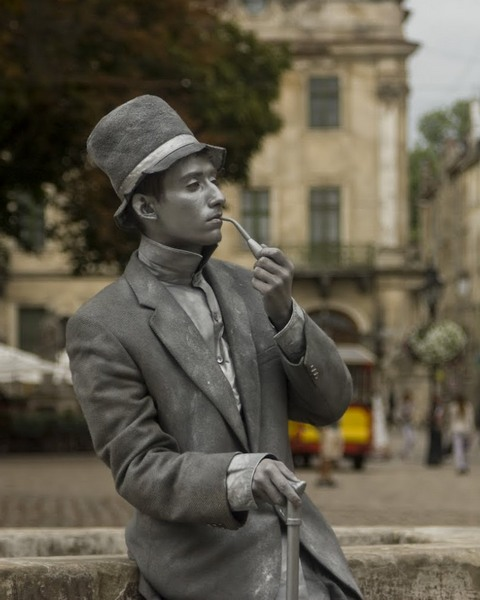
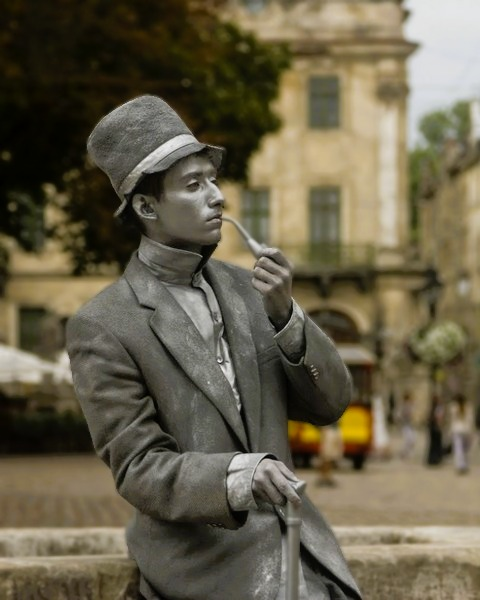
Created NFT reward image

diff --git a/backend/src/main/resources/static/index.html b/backend/src/main/resources/static/index.html
@@ -175,39 +175,76 @@
                 <br>
                 <p>Collect at least 100 tokens to receive a reward.</p>
             </div>
+
+            
             <div id="claimReward-container">
-                <!-- <button onclick="claimReward()">Claim NFT Reward</button> -->
-                <!-- Claim Reward Popup -->
-                <button type="button" id="btn_claim_reward">Claim NFT Reward</button>
-                    <!-- Popup -->
+                <button type="button" id="btn_claim_reward">
+                    Claim NFT Reward
+                </button>
+
                 <div class="popup" id="popup-claimReward">
                     <div class="overlay" id="overlay-claim"></div>
+
                     <div class="content">
                         <h3>Claim NFT Reward</h3>
+
                         <div>
                             <br>
                             <h4>Connect your wallet</h4>
-                            <button id="connectWalletBtn">Connect Wallet</button>
+                            <button id="connectWalletBtn">
+                                Connect Wallet
+                            </button>
+
                             <br><br>
+
                             <div>
-                                Connected Wallet: <span id="walletDisplay">Not connected</span>
+                                Connected Wallet:
+                                <span id="walletDisplay">
+                                    Not connected
+                                </span>
                             </div>
                         </div>
 
+                        <!-- NFT Preview -->
+                        <div class="nft-preview">
+                            <h4>Your Reward</h4>
+
+                            <img
+                                id="nftPreviewImage"
+                                src="https://res.cloudinary.com/tomaszwoloszyn983/image/upload/v1780298463/Swap-Puzzle-Game-NFT/puzzle_game_reward_yhbcg1.png"
+                                alt="NFT Reward"
+                            >
+                            <p>
+                                Complete the puzzle and claim your NFT reward.
+                            </p>
+                        </div>
+
                         <form id="claimForm">
-                            <input 
-                                type="text" 
-                                id="walletAddress" 
-                                placeholder="Enter wallet address (0x...)" 
+                            <input
+                                type="text"
+                                id="walletAddress"
+                                placeholder="Enter wallet address (0x...)"
                                 required
                             >
+
                             <br><br>
-                            <button type="submit" id="claimSubmitBtn" disabled>
+
+                            <button
+                                type="submit"
+                                id="claimSubmitBtn"
+                                disabled>
                                 Claim
                             </button>
                         </form>
+
                         <br>
-                        <button type="button" id="closeClaimPopup">Cancel</button>
+
+                        <button
+                            type="button"
+                            id="closeClaimPopup">
+                            Cancel
+                        </button>
+
                     </div>
                 </div>
             </div>

diff --git a/backend/src/main/resources/static/script.js b/backend/src/main/resources/static/script.js
@@ -239,6 +239,30 @@ document.addEventListener(
     }
 );
 
+function updateWalletUI(walletAddress) {
+
+    const notConnected =
+        document.getElementById("walletNotConnected");
+
+    const connected =
+        document.getElementById("walletConnected");
+
+    if(walletAddress){
+
+        notConnected.style.display = "none";
+        connected.style.display = "block";
+
+        document.getElementById(
+            "connectedWalletAddress"
+        ).innerText = walletAddress;
+
+    }else{
+
+        notConnected.style.display = "block";
+        connected.style.display = "none";
+    }
+}
+
 
 /**
  * Claim NFT Rewards button handler.
@@ -958,6 +982,7 @@ async function connectWallet() {
 
     const walletAddress = accounts[0];
     console.log("Connected wallet:", walletAddress);
+    updateWalletUI(walletAddress);
 
     document.getElementById("walletDisplay").innerText = walletAddress; // display in UI
 

diff --git a/backend/src/main/resources/static/popupBoxes/notConnectedClaimBox copy.html b/backend/src/main/resources/static/popupBoxes/notConnectedClaimBox copy.html
@@ -1,0 +1,38 @@
+<div id="walletNotConnected">
+
+    <h4>Connect your wallet</h4>
+
+    <button id="connectWalletBtn">
+        Connect Wallet
+    </button>
+
+    <br><br>
+
+    <div>
+        Connected Wallet:
+        <span id="walletDisplay">
+            Not connected
+        </span>
+    </div>
+
+    <br>
+
+    <form id="claimForm">
+        <input
+            type="text"
+            id="walletAddress"
+            placeholder="Enter wallet address (0x...)"
+            required
+        >
+
+        <br><br>
+
+        <button
+            type="submit"
+            id="claimSubmitBtn"
+            disabled>
+            Claim
+        </button>
+    </form>
+
+</div>

diff --git a/backend/src/main/resources/static/style.css b/backend/src/main/resources/static/style.css
@@ -265,6 +265,24 @@ li {
     transform: translate(-50%, -50%) scale(1);
 }
 
+.nft-preview {
+    text-align: center;
+    margin: 20px 0;
+}
+
+.nft-preview img {
+    width: 180px;
+    height: auto;
+    border-radius: 10px;
+    border: 2px solid #ccc;
+    box-shadow: 0 2px 8px rgba(0,0,0,0.2);
+}
+
+.nft-preview p {
+    margin-top: 10px;
+    font-size: 0.9rem;
+}
+
 
 @media screen and (max-width: 1200px){
     #game_container {

diff --git a/backend/src/main/resources/static/popupBoxes/connectedClaimBox.html b/backend/src/main/resources/static/popupBoxes/connectedClaimBox.html
@@ -1,0 +1,21 @@
+<div id="walletConnected" style="display:none;">
+
+    <h4>Wallet Connected</h4>
+
+    <div id="connectedWalletAddress"></div>
+
+    <br>
+
+    <button id="disconnectWalletBtn">
+        Disconnect Wallet
+    </button>
+
+    <br><br>
+
+    <button
+        type="submit"
+        id="claimSubmitBtnConnected">
+        Claim NFT
+    </button>
+
+</div>

diff --git a/backend/src/main/java/com/tomasz/puzzlegame_backend/controller/GameController.java b/backend/src/main/java/com/tomasz/puzzlegame_backend/controller/GameController.java
@@ -182,7 +182,6 @@ public class GameController {
                     );
                     File outputFile = outputDir.resolve("piece_" + count + ".jpg").toFile();
                     ImageIO.write(subImage, "jpg", outputFile);
-                    System.out.println("Uploaded image " + outputFile.getName());
                     count++;
                 }
             }
@@ -252,17 +251,13 @@ public class GameController {
 
     /**
      * Check if the pieces folder is not empty
-     * and
-     * if the number of pieces is equal to 20
+     * and if the number of pieces is equal to 20
      * @return True is both conditions are met.
      */
     @GetMapping("/pieces-ready")
     public boolean arePiecesReady() {
         File dir = new File(pathString);
-
         File[] files = dir.listFiles((d, name) -> name.endsWith(".jpg"));
-        System.out.println("Spit into pieces: "+files.length);
         return files != null && files.length == 20;
     }
-
 }

diff --git a/readme.md b/readme.md
@@ -396,9 +396,11 @@ The aim of the project is to demonstrate a functional blockchain integration, no
 {
   "name": "Puzzle Reward",
   "description": "Awarded for solving the puzzle",
-  "image": "https://raw.githubusercontent.com/ethereum/ethereum-org-website/dev/src/data/nft-metadata.json"
+  "image": "https://res.cloudinary.com/tomaszwoloszyn983/image/upload/v1780298463/Swap-Puzzle-Game-NFT/puzzle_game_reward_yhbcg1.png"
 }
 ```
+
+*The reward image was taken by the applications author and modified by the GPT Chat*
 
 ---
 ### Cloudinary implementation
@@ -407,10 +409,10 @@ The app uses Cloudinary to store user-uploaded images on a cloud platform.
 
 #### Architecture
 ```
-              GameController
-                    ↓
-            CloudinaryService
-                    ↓
+      GameController
+           ↓
+      CloudinaryService
+           ↓
       Cloudinary Bean (Configuration)
 ```
 
@@ -522,7 +524,7 @@ And two Config files:
       @Override
       public void addCorsMappings(CorsRegistry registry) {
           registry.addMapping("/**")
-                  .allowedOrigins("http://localhost:3000")
+                  .allowedOrigins("http://localhost:8080")
                   .allowedMethods("GET", "POST", "PUT", "DELETE");
       }
   }
@@ -577,6 +579,7 @@ User accounts
   - CSS3 - A language used to style HTML and XHTML documents presentations in web development.
   - Gitpod - Online integrated development environment.
   - GitHub - Version control service used for storing and sharing development projects.
+  - GPT Chat - Large Language Model.
   - Drag and Drop - Functionality that allows to select a virtual object by "grapping" it and "dragging" it to a different location or onto another virtual object
   - Local Storage - Used for storing data such as the game results in the browsers memory.
   - Supabase - offers a PostgreSQL database, built-in authentication, real-time subscriptions, storage solutions.
@@ -638,7 +641,7 @@ Stack Overflow: https://stackoverflow.com/
 
 Supabase - Java Spring connection YouTube tutorial: https://www.youtube.com/watch?v=bZkCF6-0YD8
 
-Cloudinray - Java Spring connection YouTube tutorial: https://www.youtube.com/watch?v=YL5x8M7ludE
+Cloudinary - Java Spring connection YouTube tutorial: https://www.youtube.com/watch?v=YL5x8M7ludE
 
-## Credits:
-I would like to especially thank to Tim Nelson from Code Institute for his great support.
+
+
